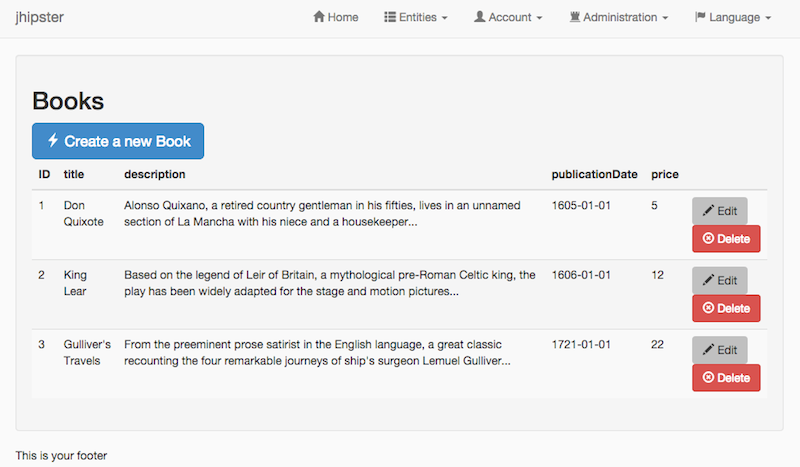
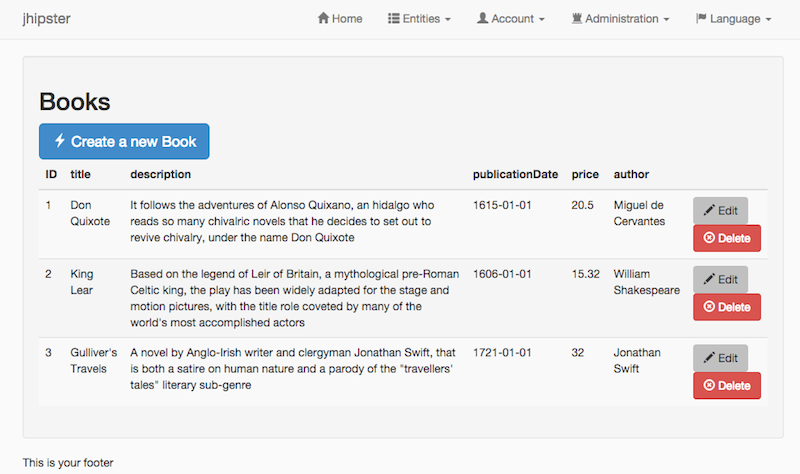
Release v1.4.0

diff --git a/creating_an_entity.html b/creating_an_entity.html
@@ -2,68 +2,102 @@
 layout: default
 title: Creating an entity
 sitemap:
-    priority: 0.7
-    lastmod: 2014-02-17T00:00:00-00:00
+priority: 0.7
+lastmod: 2014-10-10T00:00:00-00:00
 ---
 
 <h1><i class="fa fa-bolt"></i> Creating an entity</h1>
 
 <h2>Introduction</h2>
 <p>
-Once you have created your application, you will want to create <i>entities</i>. For example, you might want to create the <i>Book</i> entity, which represents a book. For this, you will need:
+    Once you have created your application, you will want to create <i>entities</i>. For example, you might want to create an <i>Author</i> and a <i>Book</i> entity. For each entity, you will need:
 </p>
 <ul>
- <li>A database table</li>
- <li>A Liquibase change set</li>
- <li>A JPA Entity</li>
- <li>A Spring Data JPA Repository</li>
- <li>A Spring MVC REST Controller, which has the basic CRUD operations</li>
- <li>An AngularJS router, a controller and a service</li>
- <li>An HTML view</li>
+    <li>A database table</li>
+    <li>A Liquibase change set</li>
+    <li>A JPA Entity</li>
+    <li>A Spring Data JPA Repository</li>
+    <li>A Spring MVC REST Controller, which has the basic CRUD operations</li>
+    <li>An AngularJS router, a controller and a service</li>
+    <li>An HTML view</li>
 </ul>
 <p>
-The "entity" sub-generator will create all the necessary files, and provide a CRUD front-end to the entity.
+    If you have several entities, you will likely want to have relationships between them. For this, you will need:
+</p>
+<ul>
+    <li>A database foreign key</li>
+    <li>Specific JavaScript and HTML code for managing this relationship</li>
+</ul>
+<p>
+    The "entity" sub-generator will create all the necessary files, and provide a CRUD front-end for each entity.
 </p>
 <p>
-If you created your application with <a href="http://www.mongodb.org" target="_blank">MongoDB</a> instead of a more classical SQL/JPA solution, JHipster will still generate your entity correctly (you will have a MongoDB document instead of a JPA entity).
+    If you created your application with <a href="http://www.mongodb.org" target="_blank">MongoDB</a> instead of a more classical SQL/JPA solution, JHipster will still generate your entities correctly (you will have MongoDB documents instead of JPA entities), but of course you won't be able to have relationships between your entities.
+</p>
+
+<p>This is a short tutorial on creating two entities (a Author and a Book) which have a one-to-many relationship.<p>
+
+<h2>Generate the "Author" entity</h2>
+
+<p>As we want to have a one-to-many relationship between Authors and Books (one author can write many books), we need to create the Author first. At the database level, JHipster will then be able to add a foreign key on the Book table, linking to the Author table.</p>
+
+<p>
+    <code>
+        yo jhipster:entity author
+    </code>
 </p>
 
 <p>
-  <b>Let's create the "Book" entity, which has a title, description, publication date, and price.</b>
+    Answer the next questions concerning the fields of this entity, the author has:
+    <ul>
+        <li>a "name" of type "String"</li>
+        <li>a "birthDate" of type "LocalDate"</li>
+    </ul>
+</p>
+<p>
+    Then answer the questions concerning the relationships, the author has:
+    <ul>
+        <li>A one-to-many relationship with the "book" entity (which doesn't exist yet)</li>
+    </ul>
 </p>
 
-<h2>Generate the entity</h2>
-<p>Create the entity with the sub-generator. For instance, for creating the "Book" entity, please type:
-</p>
+<h2>Generate the "Book" entity</h2>
+
 <p>
-<code>
-yo jhipster:entity book
-</code>
+    <code>
+        yo jhipster:entity book
+    </code>
 </p>
+
 <p>
-    You must answer the next questions, asking for each field name and type. For example, the "Book" has:
+    Answer the next questions concerning the fields of this entity, the book has:
     <ul>
         <li>a "title", of type "String"</li>
         <li>a "description", of type "String"</li>
         <li>a "publicationDate", of type "LocalDate"</li>
-        <li>a "price", of type "Integer"</li>
+        <li>a "price", of type "BigDecimal"</li>
     </ul>
 </p>
 <p>
-    This will generate all the required files.
+    Then answer the questions concerning the relationships, the book:
+    <ul>
+        <li>Has many-to-one relationship with the "author" entity</li>
+        <li>And this relationship uses the "name" field (from the Author entity) to be displayed</li>
+    </ul>
 </p>
 
-<h2>Check the generated CRUD front-end</h2>
+
+<h2>Check the generated code</h2>
 
 <p>
-    Run the generated test suite, with <code>mvn test</code>, which will test the new Book entity.
+    Run the generated test suite, with <code>mvn test</code>, which will test the Author entity and the Book entity.
 </p>
 <p>
-    Launch the application (for example with <code>mvn spring-boot:run</code>), log in and select the "Book"
-    entity in the "entities" menu.
+    Launch the application (for example with <code>mvn spring-boot:run</code>), log in and select the "Author" and "Book"
+    entities in the "entities" menu.
 </p>
 <p>
-    Check the database table, to see if your data is correctly inserted.
+    Check the database tables, to see if your data is correctly inserted.
 </p>
 
 <h2>Improve the generated code</h2>
@@ -74,12 +108,12 @@ yo jhipster:entity book
     If you want to modify the generated code or the database schema, you should follow our <a href="{{ site.url }}/development.html">development guide</a>
 </p>
 <p>
-If you want some more complex business behaviors, you might need to add a Spring <code>@Service</code> class, using the <a href="{{ site.url }}/creating_a_service.html">service sub-generator</a>.
+    If you want some more complex business behaviors, you might need to add a Spring <code>@Service</code> class, using the <a href="{{ site.url }}/creating_a_service.html">service sub-generator</a>.
 </p>
 
 <h2>You're done!</h2>
 
 <p>
-  Your generated CRUD page should look like this:
+    Your generated CRUD page should look like this:
 </p>
 <img src="images/screenshot_5.png"/>

diff --git a/_posts/2014-10-13-jhipster-release-1.4.0.md b/_posts/2014-10-13-jhipster-release-1.4.0.md
@@ -1,0 +1,40 @@
+---
+layout: default
+title: Release 1.4.0
+---
+
+JHipster release 1.4.0
+==================
+
+*JHipster gives you Spring Boot + AngularJS working together in one handy Yeoman generator.*
+
+What's new
+----------
+
+The entity sub-generator has been once again improved, and can now generate one-to-many and many-to-one relationships between entities. Please check our [updated documentation](http://jhipster.github.io/creating_an_entity.html). Of course, we plan to support many-to-many relationships in the future.
+
+[You can check the closed tickets here](https://github.com/jhipster/generator-jhipster/issues?q=milestone%3A1.4.0+is%3Aclosed).
+
+How to upgrade
+------------
+
+Update your version of JHipster with:
+
+```
+npm update -g generator-jhipster
+```
+
+And then you can update your project when you run again
+
+```
+yo jhipster
+```
+
+Help and bugs
+--------------
+
+If you find any issue with this release, don't hesitate to:
+
+- Contact [@java_hipster](https://twitter.com/java_hipster) on Twitter
+- Add a bug on our [bug tracker](https://github.com/jhipster/generator-jhipster/issues?state=open)
+- Post a question on [Stack Overflow](http://stackoverflow.com/tags/jhipster/info)
